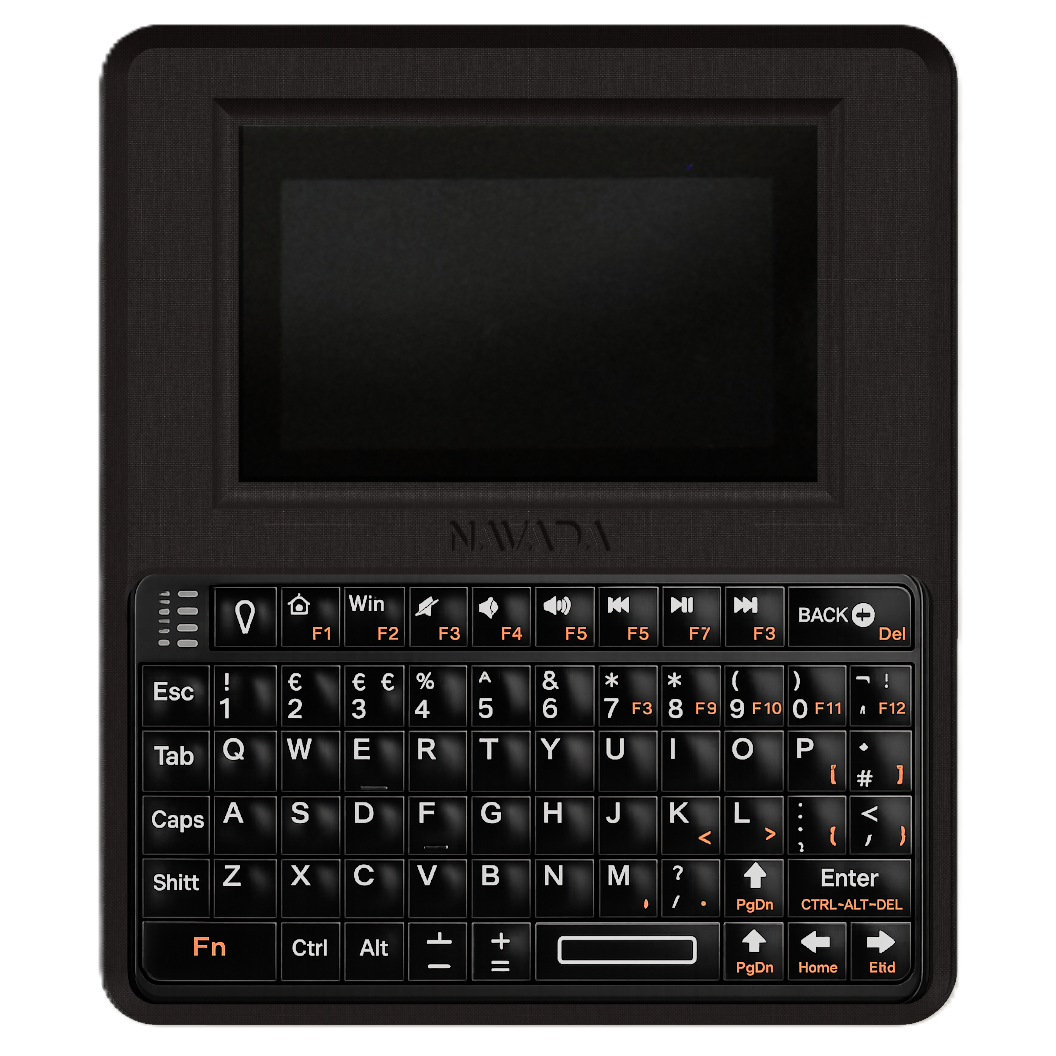
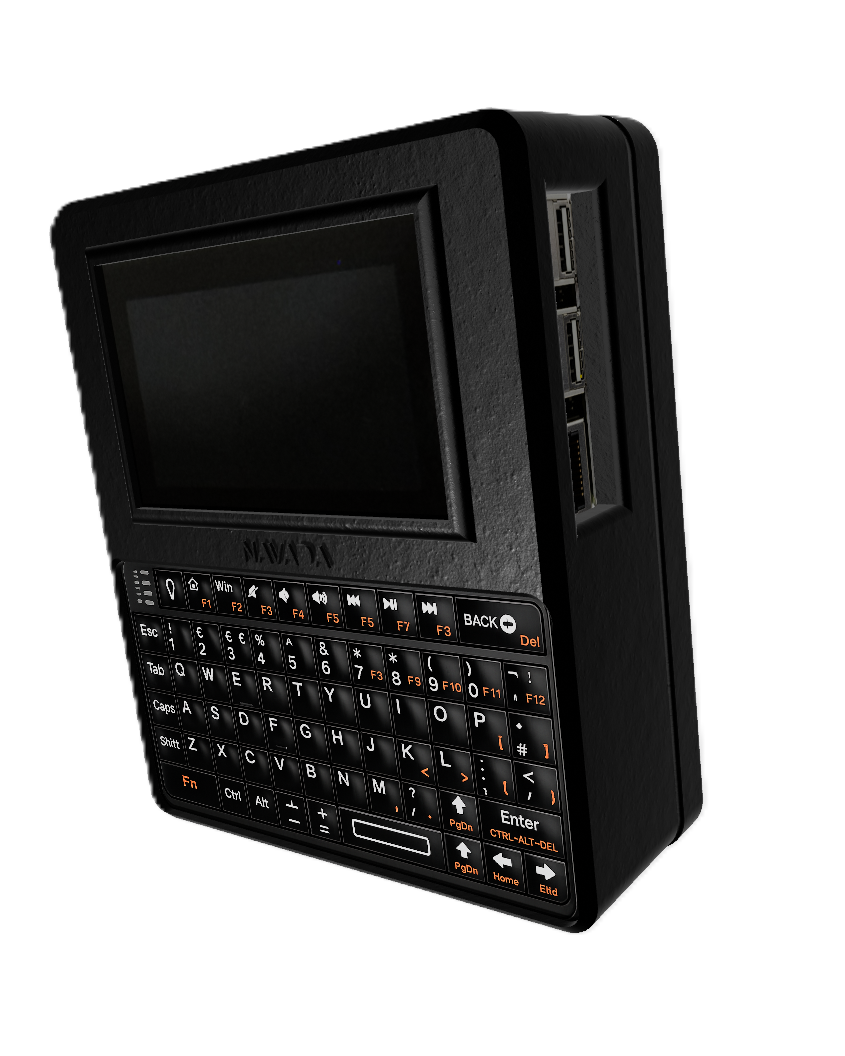
Update Mobile.png and adjust mobile display positioning
- Replace Mobile.png with new version
- Increase mobile zoom to 5x scale
- Move mobile PNG up by 20%

🤖 Generated with [Claude Code](https://claude.ai/code)

diff --git a/src/components/device/DeviceFrame.tsx b/src/components/device/DeviceFrame.tsx
@@ -57,7 +57,7 @@ export default function DeviceFrame({ children }: DeviceFrameProps) {
         ref={containerRef}
         className={`relative w-full h-full flex items-center justify-center ${isMobile ? 'overflow-hidden' : 'max-w-3xl max-h-[90vh]'}`}
       >
-        <div className={`relative w-full aspect-[16/10] device-frame ${isMobile ? 'scale-[4] origin-center' : 'max-h-full'}`}>
+        <div className={`relative w-full aspect-[16/10] device-frame ${isMobile ? 'scale-[5] origin-center -translate-y-[20%]' : 'max-h-full'}`}>
           {/* Device Image */}
           <Image
             src={isMobile ? "/Mobile.png" : "/Front-Website1.png"}
